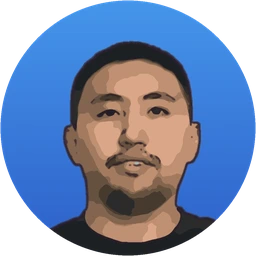
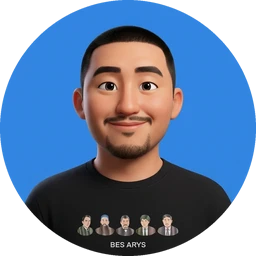
Аватар «Нұрмаш ағай» в 3D-стиле, цена 1000 монет
Claude-Session: https://claude.ai/code/session_01Qg9vQfd9x2tLvuvrYW3xy3

diff --git a/contest/avatars.py b/contest/avatars.py
@@ -32,6 +32,7 @@ CATALOG = [
     dict(key='av27', file='avatars/av-27.webp', kind='paid', price=350, ru='Аниме-геймер', kk='Аниме геймер'),
     dict(key='av28', file='avatars/av-28.webp', kind='paid', price=300, ru='Корги-пилот', kk='Ұшқыш корги'),
     dict(key='av29', file='avatars/av-29.webp', kind='paid', price=400, ru='Неоновый кот', kk='Неон мысық'),
+    dict(key='nurmash', file='avatars/nurmash-agai.webp', kind='paid', price=1000, ru='Нұрмаш ағай', kk='Нұрмаш ағай'),
 ]
 BY_KEY = {a['key']: a for a in CATALOG}
 

diff --git a/contest/tests.py b/contest/tests.py
@@ -2852,7 +2852,8 @@ class AvatarShopTests(TestCase):
         from django.conf import settings
         from . import avatars
         paid = [a for a in avatars.CATALOG if a['kind'] == 'paid']
-        self.assertEqual(len(paid), 29)
+        self.assertEqual(len(paid), 30)
+        self.assertEqual(avatars.BY_KEY['nurmash']['price'], 1000)
         base = os.path.join(settings.BASE_DIR, 'contest', 'static')
         for a in avatars.CATALOG:
             self.assertTrue(os.path.exists(os.path.join(base, a['file'])), a['file'])
